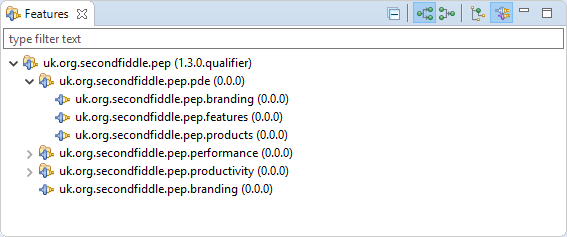
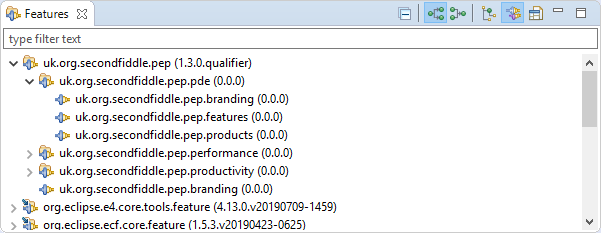
Bug 550316 - Features view now shows features from target platform

diff --git a/4.13/pde.html b/4.13/pde.html
@@ -61,21 +61,22 @@ ul {padding-left: 13px;}
   <tr id="features-view"> <!-- https://bugs.eclipse.org/bugs/show_bug.cgi?id=543217 -->
     <td class="title">New Features view</td>
     <td class="content">
-      You can now view the structure of features in your workspace projects using the new <b>Features</b> view.
+      You can now view the structure of features in your workspace projects and the target platform using the new <b>Features</b> view.
       <p>
-       To open the view, go to the <b>Show View</b> dialog (<b>Window &gt; Show View &gt; Other...</b>) and choose it from
-			 the <b>Plug-in Development</b> category.
-      </p>
-			<p>
-       <img src="images/show-view-dialog.png" alt="" />
+        To open the view, go to the <b>Show View</b> dialog (<b>Window &gt; Show View &gt; Other...</b>) and choose it from
+        the <b>Plug-in Development</b> category.
       </p>
       <p>
-       By default the view shows only features, with child features listed under their parents rather than at the top level.
-			 The buttons on the view's toolbar allow plugins/fragments included within a feature to be shown, child features to be
-			 shown at the top level, and for the hierarchy to be inverted (to show the features including each feature).
+        <img src="images/show-view-dialog.png" alt="" />
       </p>
       <p>
-       <img src="images/features-view.png" alt="" />
+        By default the view shows only features (with those from workspace projects shown first), and child features are listed under
+        their parents rather than at the top level. The buttons on the view's toolbar allow plugins/fragments included within a
+        feature to be shown, child features to be shown at the top level, and for the hierarchy to be inverted (to show the features
+        including each feature).
+      </p>
+      <p>
+        <img src="images/features-view.png" alt="" />
       </p>
     </td>
   </tr>
